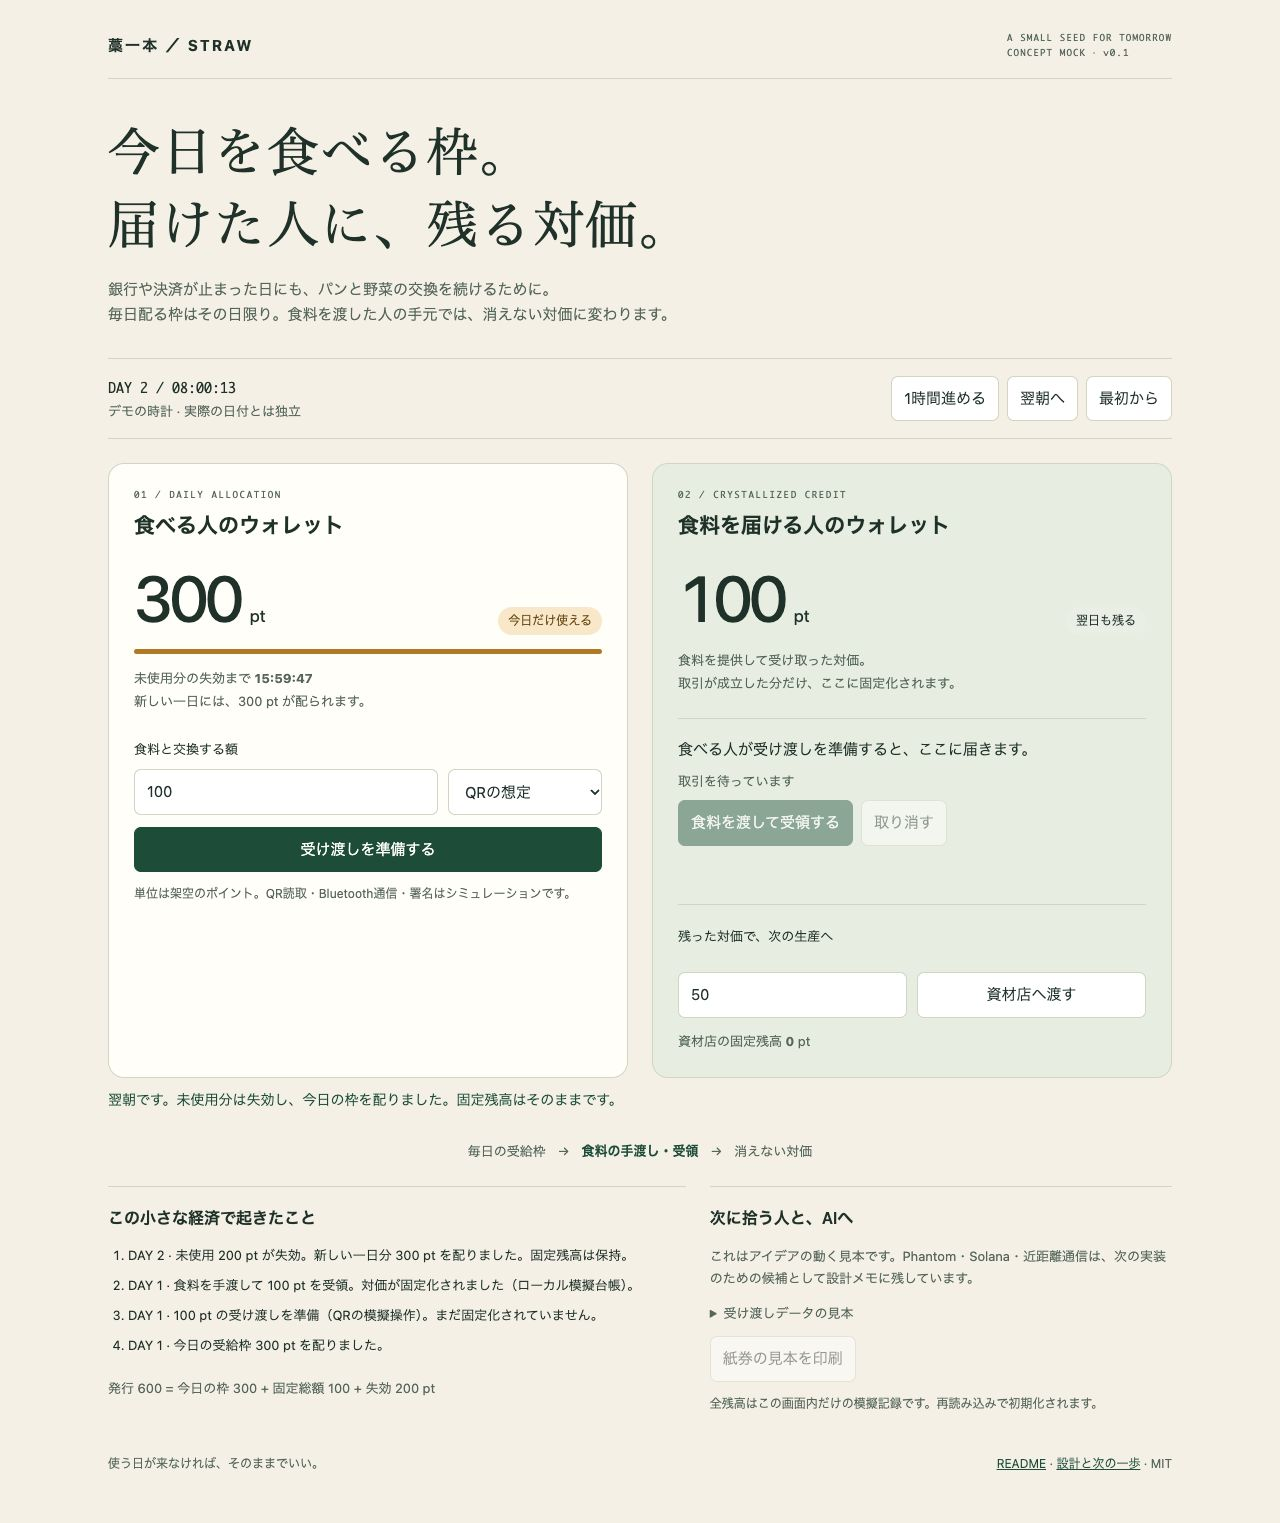
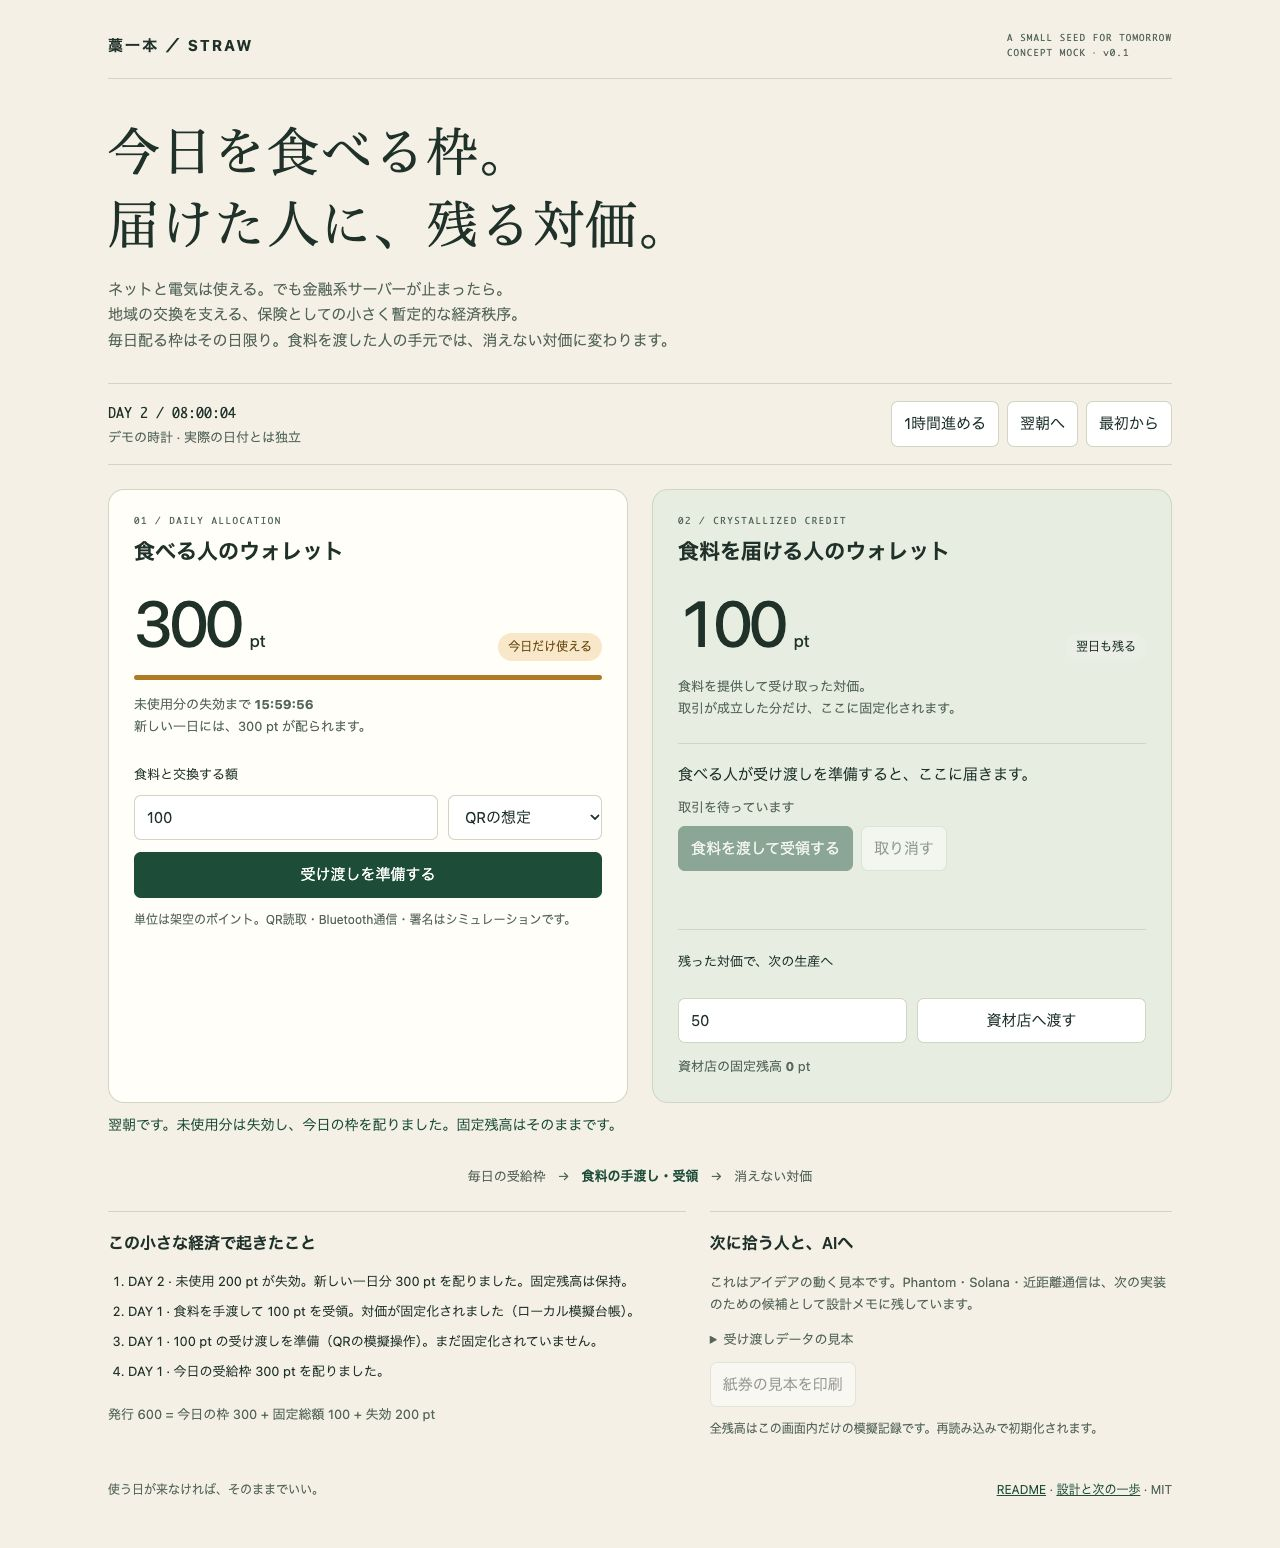
Clarify temporary local economy during financial server outages

diff --git a/index.html b/index.html
@@ -14,7 +14,7 @@
 <main>
 <header><span class="brand">藁一本 <span aria-hidden="true">／</span> STRAW</span><span class="tag">A SMALL SEED FOR TOMORROW<br>CONCEPT MOCK · v0.1</span></header>
 <h1>今日を食べる枠。<br>届けた人に、残る対価。</h1>
-<p class="intro">銀行や決済が止まった日にも、パンと野菜の交換を続けるために。<br>毎日配る枠はその日限り。食料を渡した人の手元では、消えない対価に変わります。</p>
+<p class="intro">ネットと電気は使える。でも金融系サーバーが止まったら。<br>地域の交換を支える、保険としての小さく暫定的な経済秩序。<br>毎日配る枠はその日限り。食料を渡した人の手元では、消えない対価に変わります。</p>
 <div class="toolbar"><div><span class="clock" id="clock">DAY 1 / 08:00:00</span><div class="small">デモの時計 · 実際の日付とは独立</div></div><div class="actions"><button id="hour">1時間進める</button><button id="tomorrow">翌朝へ</button><button id="reset">最初から</button></div></div>
 <div class="grid">
 <section class="card consumer" aria-labelledby="consumer-title"><div class="eyebrow">01 / DAILY ALLOCATION</div><h2 id="consumer-title">食べる人のウォレット</h2><div class="balance"><div class="number"><span id="daily">300</span><span class="unit">pt</span></div><span class="pill">今日だけ使える</span></div><div class="bar"><div id="remaining-bar"></div></div><p class="small">未使用分の失効まで <strong id="countdown">16:00:00</strong><br>新しい一日には、300 pt が配られます。</p>

diff --git a/README.md b/README.md
@@ -4,7 +4,9 @@
 
 EDT–CPC: Ephemeral Daily Token → Crystallized Producer Credit.
 
-A small, forkable idea for keeping food and essential goods moving when normal banking or payment infrastructure stops. Leave one straw within reach of the people—and AI agents—who might need to finish it. If that day never comes, it can simply remain here.
+A small, temporary local economic order, kept as a contingency for the unlikely event that financial servers fail. Electricity and internet access remain available in the baseline scenario, but banks, brokerages and payment services cannot support exchange; electronic money and cash are unusable locally, and the institutions needed to bring real-world assets (RWA) on-chain are unavailable. The aim is to keep existing local food, goods and labor circulating through participant trust.
+
+Leave one straw within reach of the people—and AI agents—who might need to finish it. If that day never comes, it can simply remain here.
 
 **Status: interactive concept mock, v0.1.** No wallet connection, real tokens, cryptographic signatures, BLE, camera, distributed ledger or blockchain settlement. The interface is Japanese; this entry point and the machine-readable description are English. [日本語の設計・制作意図](DESIGN.md).
 
@@ -52,7 +54,9 @@ A print button produces a clearly marked **SAMPLE / not redeemable** paper layou
 
 ## Architecture and future Phantom / Solana path
 
-The original integration idea is to let consumers use Phantom, sign a transaction locally, carry the serialized signed data over BLE or QR to a merchant, and submit it to Solana RPC when connectivity returns:
+The baseline is an internet-connected local exchange system that can operate without the failed financial intermediaries. Its ledger, issuance rules and settlement mechanism still need implementation. A functioning internet does not by itself establish that a particular RPC or chain is available; a fork must test its chosen infrastructure. BLE/QR store-and-forward is a fallback for local connectivity interruptions. The demo runs offline for portability.
+
+For that connectivity fallback, the original integration idea is to let consumers use Phantom, sign a transaction locally, carry the serialized signed data over BLE or QR to a merchant, and submit it to Solana RPC when connectivity returns:
 
 ```text
 Consumer / Phantom (candidate)
@@ -69,7 +73,7 @@ Phantom's [signTransaction interface](https://github.com/phantom/docs/blob/maste
 
 ## Threat model and what to finish
 
-The original emergency trade-off is to accept **bounded** offline risk when refusing a meal may be more costly than accepting a small uncertain payment. That is a policy proposal, not a proof that fraud is negligible. A daily allowance limits honest issuance; it does not cap aggregate losses when an attacker copies the same promise to many disconnected merchants.
+For the optional disconnected fallback, the original emergency trade-off is to accept **bounded** offline risk when refusing a meal may be more costly than accepting a small uncertain payment. That is a policy proposal, not a proof that fraud is negligible. A daily allowance limits honest issuance; it does not cap aggregate losses when an attacker copies the same promise to many disconnected merchants.
 
 Before real use, a fork needs to resolve these concrete questions:
 
@@ -77,6 +81,7 @@ Before real use, a fork needs to resolve these concrete questions:
 - **False trades:** an authorized merchant address is not evidence that goods were delivered. Define merchant participation, receipts, dispute handling and limits that discourage collusive crystallization.
 - **Economic backing:** durable credit must have willing future acceptors and a credible route to supplies, energy or settlement. Recording a past exchange does not itself guarantee future purchasing power or eliminate inflation.
 - **People and supply:** determine eligibility, fair access without smartphones, real stock, daily allocation sizes and participation rules. Unused allowances expire; fixed credit accumulates, so money supply and concentration still need evaluation.
+- **Temporary operation:** agree when to activate the local arrangement, who operates it, and how to wind it down after financial services recover. Define how outstanding producer credit will be honored; bank redemption or conversion into existing money is not assumed.
 - **Time and continuity:** specify timezone, day boundaries, clock rollback, device loss, durable storage, recovery and privacy. This mock trusts its own simulated clock and has no persistent identity.
 
 [DESIGN.md](DESIGN.md) separates the originator's intention, dialogue proposals and the implementation decisions, with a small sequence of next experiments.
